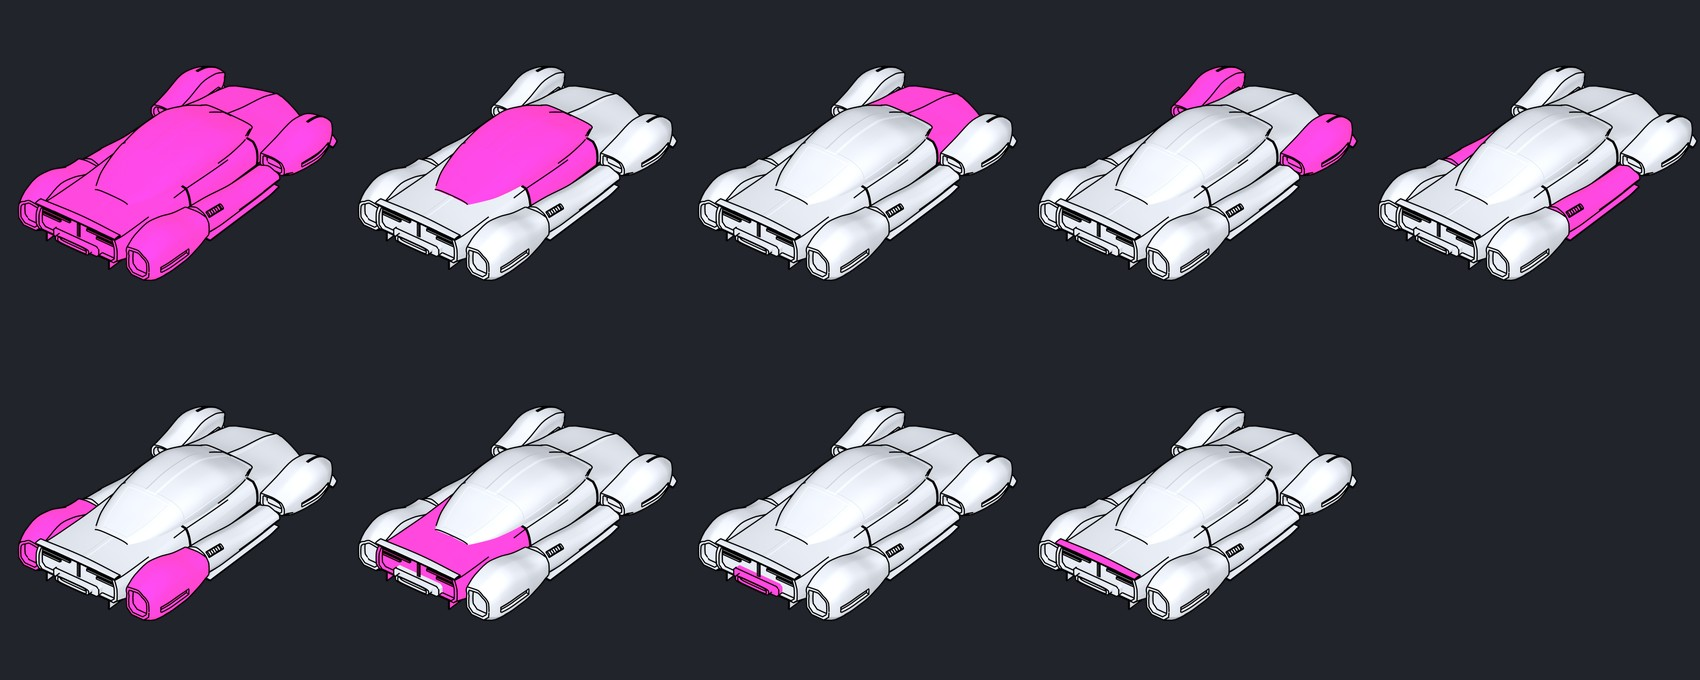
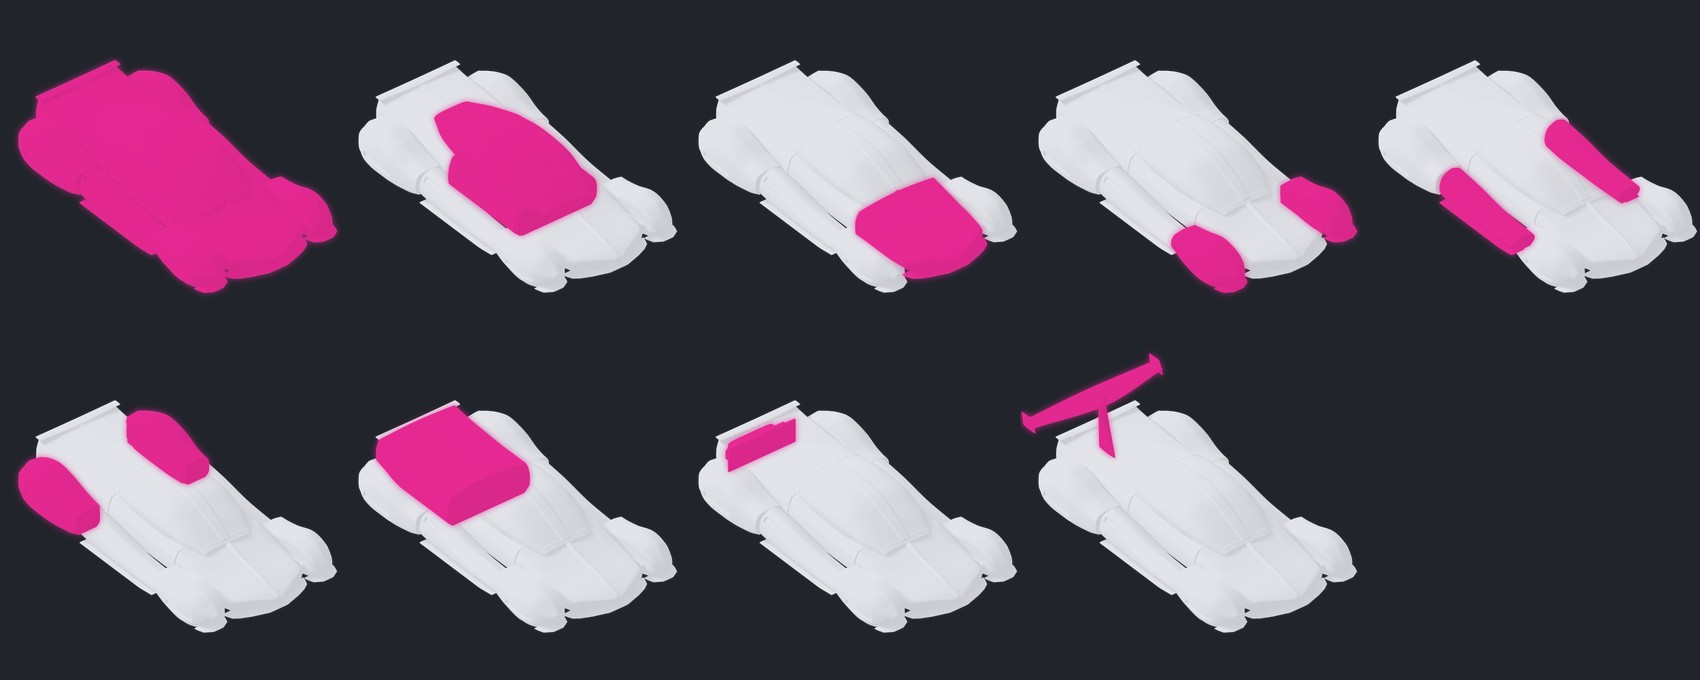
garage: Exotic slot diagrams reworked - front view, no outlines, layered highlight, larger wing and boost

diff --git a/scripts/exotic_category/mesh/images.py b/scripts/exotic_category/mesh/images.py
@@ -5,8 +5,9 @@ Inside Blender, after cars.build_all(render=False):
 
 cards(): one 3:2 front three-quarter render per car (standard version, default colours) under
 output/exotic-images/base/. These are the shape reference for the painted card images.
-diagrams(): orthographic renders of one car with a transparent background, the whole car in white and one
-slot in pink, in the convention of the Piercer slot artwork (Config.UI.GarageReplacement.ModuleArtwork).
+diagrams(): orthographic raw passes of one car for the slot diagrams (whole car in grey; each slot alone in
+pink). compose_diagrams.py layers them into the final images, in the convention of the Piercer slot artwork
+(Config.UI.GarageReplacement.ModuleArtwork).
 """
 import math
 import os
@@ -87,43 +88,88 @@ def _ortho(target, az, el, scale, path, res):
     return path
 
 
-def diagrams(car="C", views=(("rear", 38, 36),), scale=25.0, res=(1024, 1024)):
-    """One image per slot and view: the car in light grey, the slot in pink, thin outlines, transparent
-    background. The high rear three-quarter view is the one angle that shows all seven slots."""
-    os.makedirs(os.path.join(OUT, "diagrams"), exist_ok=True)
+def diagrams(car="C", az=142, el=36, scale=25.0, res=(1024, 1024), oversize=(("Boost", 1.35), ("Spoiler", 1.35)),
+             alt=(("Spoiler", "trims_c1", "GT"),)):
+    """Raw passes for the slot diagrams, front three-quarter orthographic view, transparent background:
+    raw/base.png is the whole car in flat light grey; raw/<slot>.png is that slot alone in pink, drawn
+    without the rest of the car so it shows even where the body would hide it. Slots in `oversize` are
+    scaled up about their own centre so a small part still reads; a slot in `alt` is drawn from another build
+    (the GT wing, which is easier to recognise than the standard lip). compose_diagrams.py layers the passes."""
+    raw = os.path.join(OUT, "diagrams", "raw")
+    os.makedirs(raw, exist_ok=True)
     name, x, oz, _ = BUILDS[car]
-    white, pink = _flat(K.PREFIX + "diagram_white", (0.62, 0.63, 0.66), 0.0), _flat(K.PREFIX + "diagram_pink", PINK, 0.9)
+    white, pink = _flat(K.PREFIX + "diagram_white", (0.7, 0.71, 0.74), 0.12), _flat(K.PREFIX + "diagram_pink", PINK, 0.35)
+    ground = bpy.data.objects.get(K.PREFIX + "ground")
     scene = bpy.context.scene
     freestyle = scene.render.use_freestyle
-    scene.render.use_freestyle = True
-    scene.render.line_thickness = 1.4
-    ground = bpy.data.objects.get(K.PREFIX + "ground")
-    for e in bpy.data.collections[K.PREFIX + "BUILDS"].objects:
-        e.hide_render = not e.name.startswith(K.PREFIX + name + "_")
+    builds = bpy.data.collections[K.PREFIX + "BUILDS"].objects
     colls = {slot: bpy.data.collections[f"{K.PREFIX}{car}_{code}_STD"] for slot, code in SLOTS.items()}
+    empties = {slot: builds[f"{K.PREFIX}{name}_{car}_{code}_STD"] for slot, code in SLOTS.items()}
     saved = {ob.name: list(ob.data.materials) for c in colls.values() for ob in c.objects}
+    hidden = {e.name: e.hide_render for e in builds}
+    grow = dict(oversize)
+    for slot, row, trim in alt:   # the highlight pass of this slot uses another version, moved onto this car
+        code = SLOTS[slot]
+        other = builds[f"{K.PREFIX}{row}_{car}_{code}_{trim}"]
+        hidden_home = other.location.copy()
+        other.location = empties[slot].location.copy()
+        colls[slot + "#alt"] = bpy.data.collections[f"{K.PREFIX}{car}_{code}_{trim}"]
+        empties[slot + "#alt"] = other
+        saved.update({ob.name: list(ob.data.materials) for ob in colls[slot + "#alt"].objects})
+        hidden[other.name + "#home"] = hidden_home
 
-    def paint(target):
-        for slot, c in colls.items():
-            mat = pink if target in (slot, "All") else white
+    def paint(mat):
+        for c in colls.values():
             for ob in c.objects:
                 for i in range(len(ob.data.materials)):
                     ob.data.materials[i] = mat
 
+    def show(slots):
+        for e in builds:
+            e.hide_render = True
+        for slot in slots:
+            empties[slot].hide_render = False
+
+    def centre(coll):
+        pts = [ob.matrix_world @ v.co for ob in coll.objects for v in ob.data.vertices]
+        lo = Vector((min(p.x for p in pts), min(p.y for p in pts), min(p.z for p in pts)))
+        hi = Vector((max(p.x for p in pts), max(p.y for p in pts), max(p.z for p in pts)))
+        return (lo + hi) / 2
+
     out = []
     try:
+        scene.render.use_freestyle = False
         if ground:
             ground.hide_render = True
         _png(True)
-        for slot in ["All"] + list(SLOTS):
-            paint(slot)
-            for tag, az, el in views:
-                out.append(_ortho((x, 1.0, oz + 0.3), az, el, scale, os.path.join(OUT, "diagrams", f"{slot}.png" if len(views) == 1 else f"{slot}_{tag}.png"), res))
+        target = (x, 1.0, oz + 0.3)
+        paint(white)
+        show(list(SLOTS))
+        out.append(_ortho(target, az, el, scale, os.path.join(raw, "base.png"), res))
+        paint(pink)
+        out.append(_ortho(target, az, el, scale, os.path.join(raw, "All.png"), res))
+        for slot in SLOTS:
+            key = slot + "#alt" if slot + "#alt" in empties else slot
+            show([key])
+            e, k = empties[key], grow.get(slot, 1.0)
+            home = e.location.copy()
+            if k != 1.0:
+                e.scale = (k, k, k)
+                e.location = home + (1.0 - k) * centre(colls[key])
+            try:
+                out.append(_ortho(target, az, el, scale, os.path.join(raw, f"{slot}.png"), res))
+            finally:
+                e.scale = (1.0, 1.0, 1.0)
+                e.location = home
     finally:
         for c in colls.values():
             for ob in c.objects:
                 for i, m in enumerate(saved[ob.name]):
                     ob.data.materials[i] = m
+        for e in builds:
+            e.hide_render = hidden[e.name]
+            if e.name + "#home" in hidden:
+                e.location = hidden[e.name + "#home"]
         if ground:
             ground.hide_render = False
         scene.render.use_freestyle = freestyle

diff --git a/scripts/exotic_category/mesh/compose_diagrams.py b/scripts/exotic_category/mesh/compose_diagrams.py
@@ -1,0 +1,55 @@
+"""Layer the raw diagram passes from images.diagrams() into the final slot diagrams.
+
+    py -3 scripts/exotic_category/mesh/compose_diagrams.py
+
+Input: output/exotic-images/diagrams/raw/base.png (whole car, grey) and one pink pass per slot.
+Output: output/exotic-images/diagrams/<slot>.png (1024 px, transparent): the grey car, a soft pink glow and
+the pink slot on top, so a slot the body would hide still shows. Also writes sheet.jpg for review.
+"""
+import os
+
+from PIL import Image, ImageFilter
+
+HERE = os.path.dirname(os.path.abspath(__file__))
+ROOT = os.path.abspath(os.path.join(HERE, "..", "..", "..", "output", "exotic-images", "diagrams"))
+ORDER = ["All", "Cockpit", "FrontBody", "FrontEngine", "Stabilisers", "RearEngine", "RearBody", "Boost", "Spoiler"]
+PINK = (233, 42, 148)
+GREY = (226, 228, 234)
+
+
+def flat(img, colour, keep=0.8):
+    """Flatten a pass toward one colour, keeping a little of its shading, with its own alpha."""
+    r, g, b, a = img.split()
+    lum = Image.merge("RGB", (r, g, b)).convert("L")
+    solid = Image.new("RGB", img.size, colour)
+    lum = Image.eval(lum, lambda v: v)
+    lo, hi = lum.getextrema()
+    span = max(hi - lo, 1)
+    shade = Image.merge("RGB", [lum.point(lambda v, c=c: int(c * (0.58 + 0.42 * (min(max(v, lo), hi) - lo) / span))) for c in colour])
+    out = Image.blend(solid, shade, keep)
+    out.putalpha(a)
+    return out
+
+
+def main():
+    base = flat(Image.open(os.path.join(ROOT, "raw", "base.png")).convert("RGBA"), GREY)
+    tiles = []
+    for slot in ORDER:
+        part = flat(Image.open(os.path.join(ROOT, "raw", slot + ".png")).convert("RGBA"), PINK, keep=0.6)
+        glow = Image.new("RGBA", part.size, PINK + (0,))
+        glow.putalpha(part.split()[3].filter(ImageFilter.GaussianBlur(9)).point(lambda v: int(v * 0.75)))
+        out = Image.new("RGBA", base.size, (0, 0, 0, 0))
+        for layer in (base, glow, part):
+            out.alpha_composite(layer)
+        out.save(os.path.join(ROOT, slot + ".png"))
+        tiles.append(out)
+    sheet = Image.new("RGB", (5 * 340, 2 * 340), (34, 36, 44))
+    for i, im in enumerate(tiles):
+        small = im.resize((340, 340), Image.LANCZOS)
+        sheet.paste(small, ((i % 5) * 340, (i // 5) * 340), small)
+    sheet.save(os.path.join(ROOT, "sheet.jpg"), quality=90)
+    print("wrote %d diagrams and sheet.jpg" % len(tiles))
+
+
+if __name__ == "__main__":
+    main()
